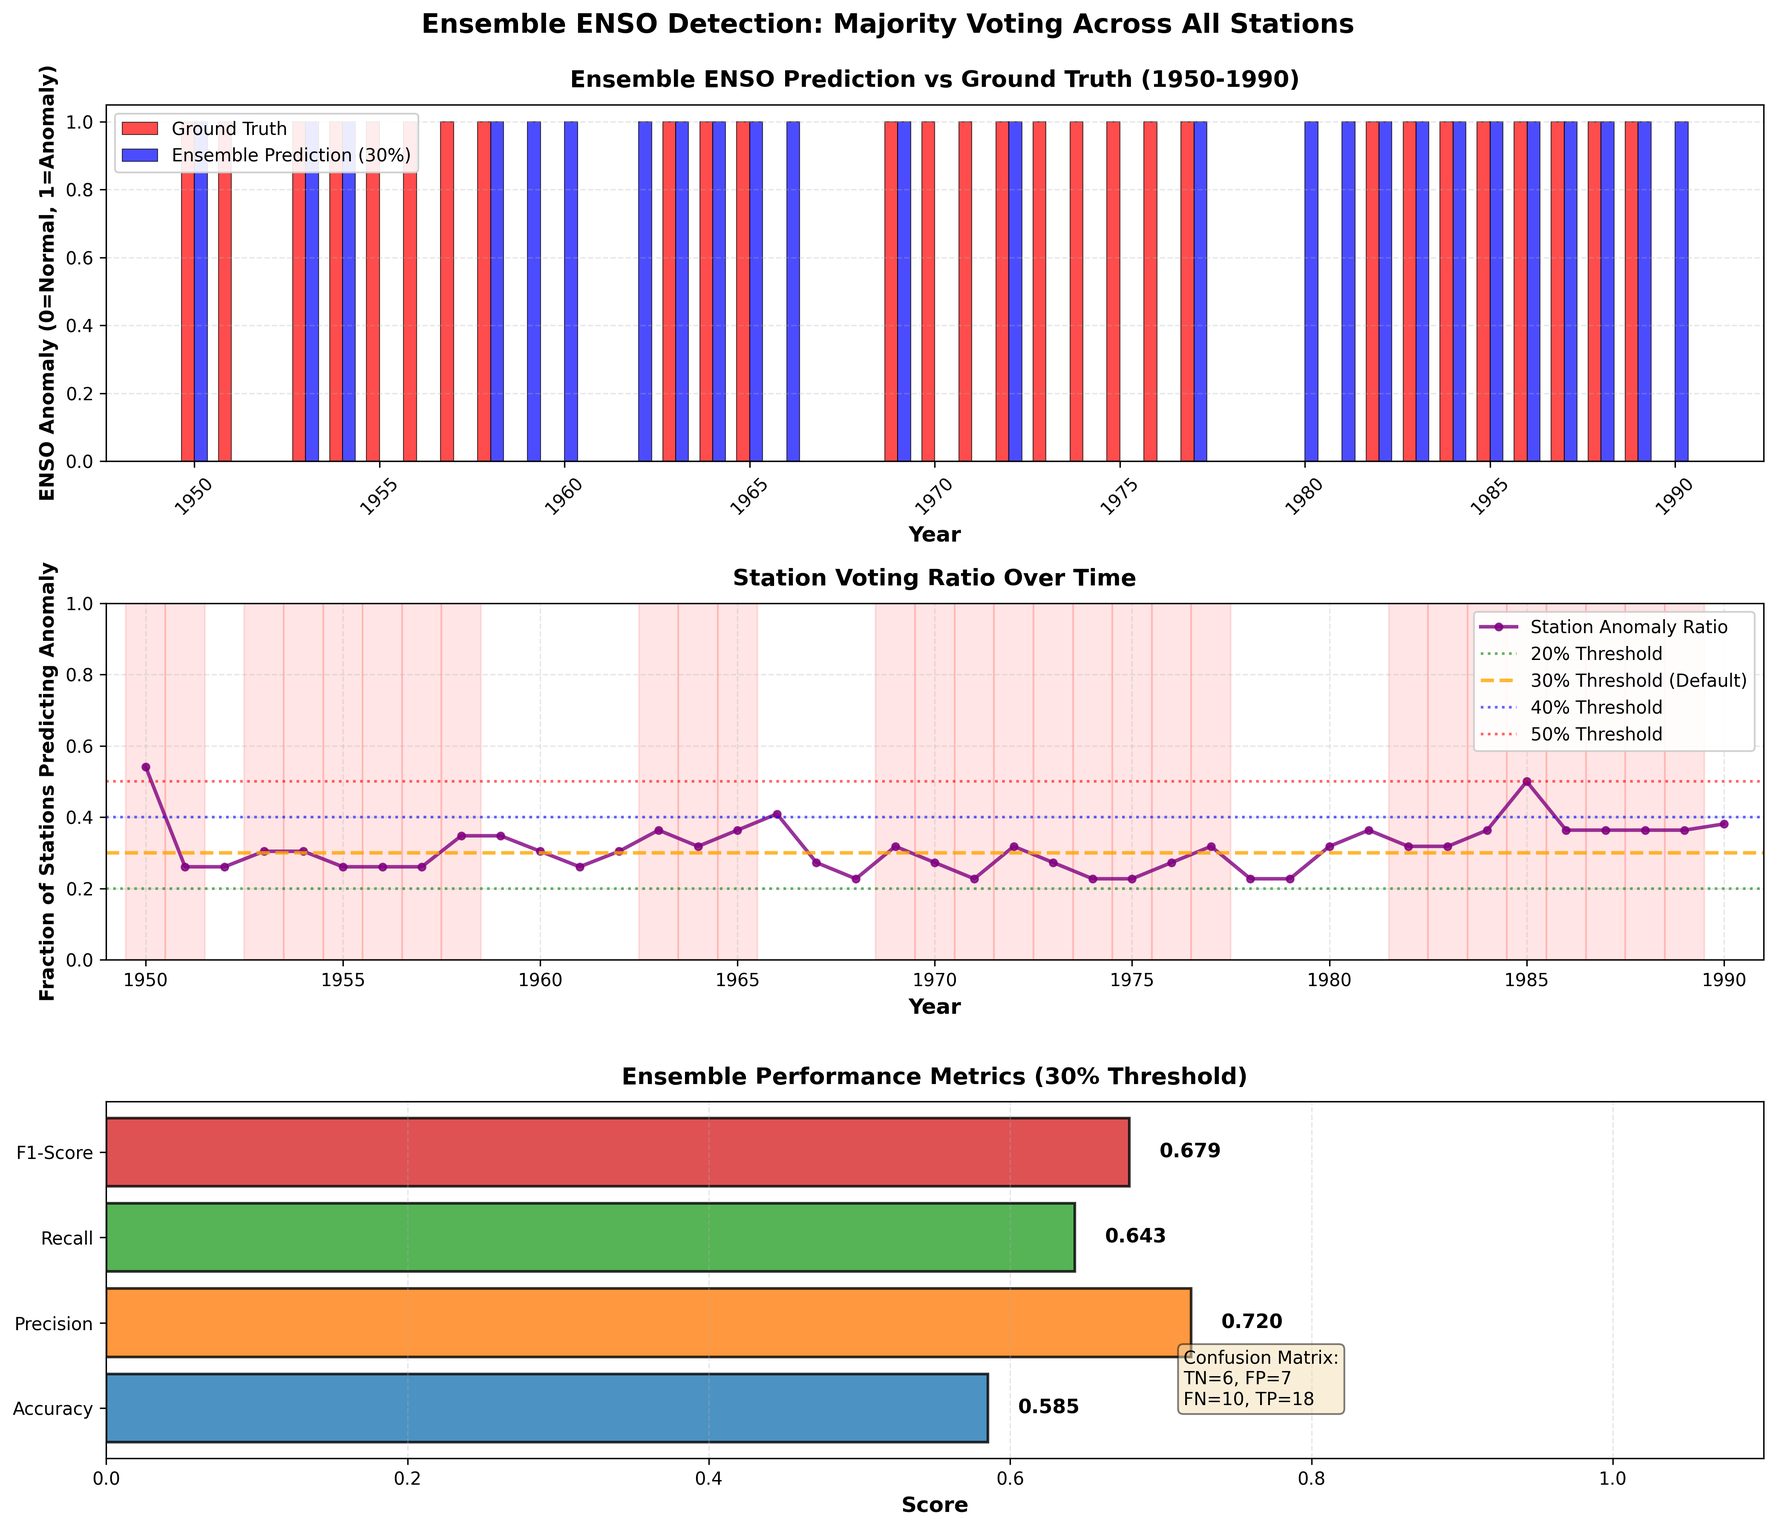
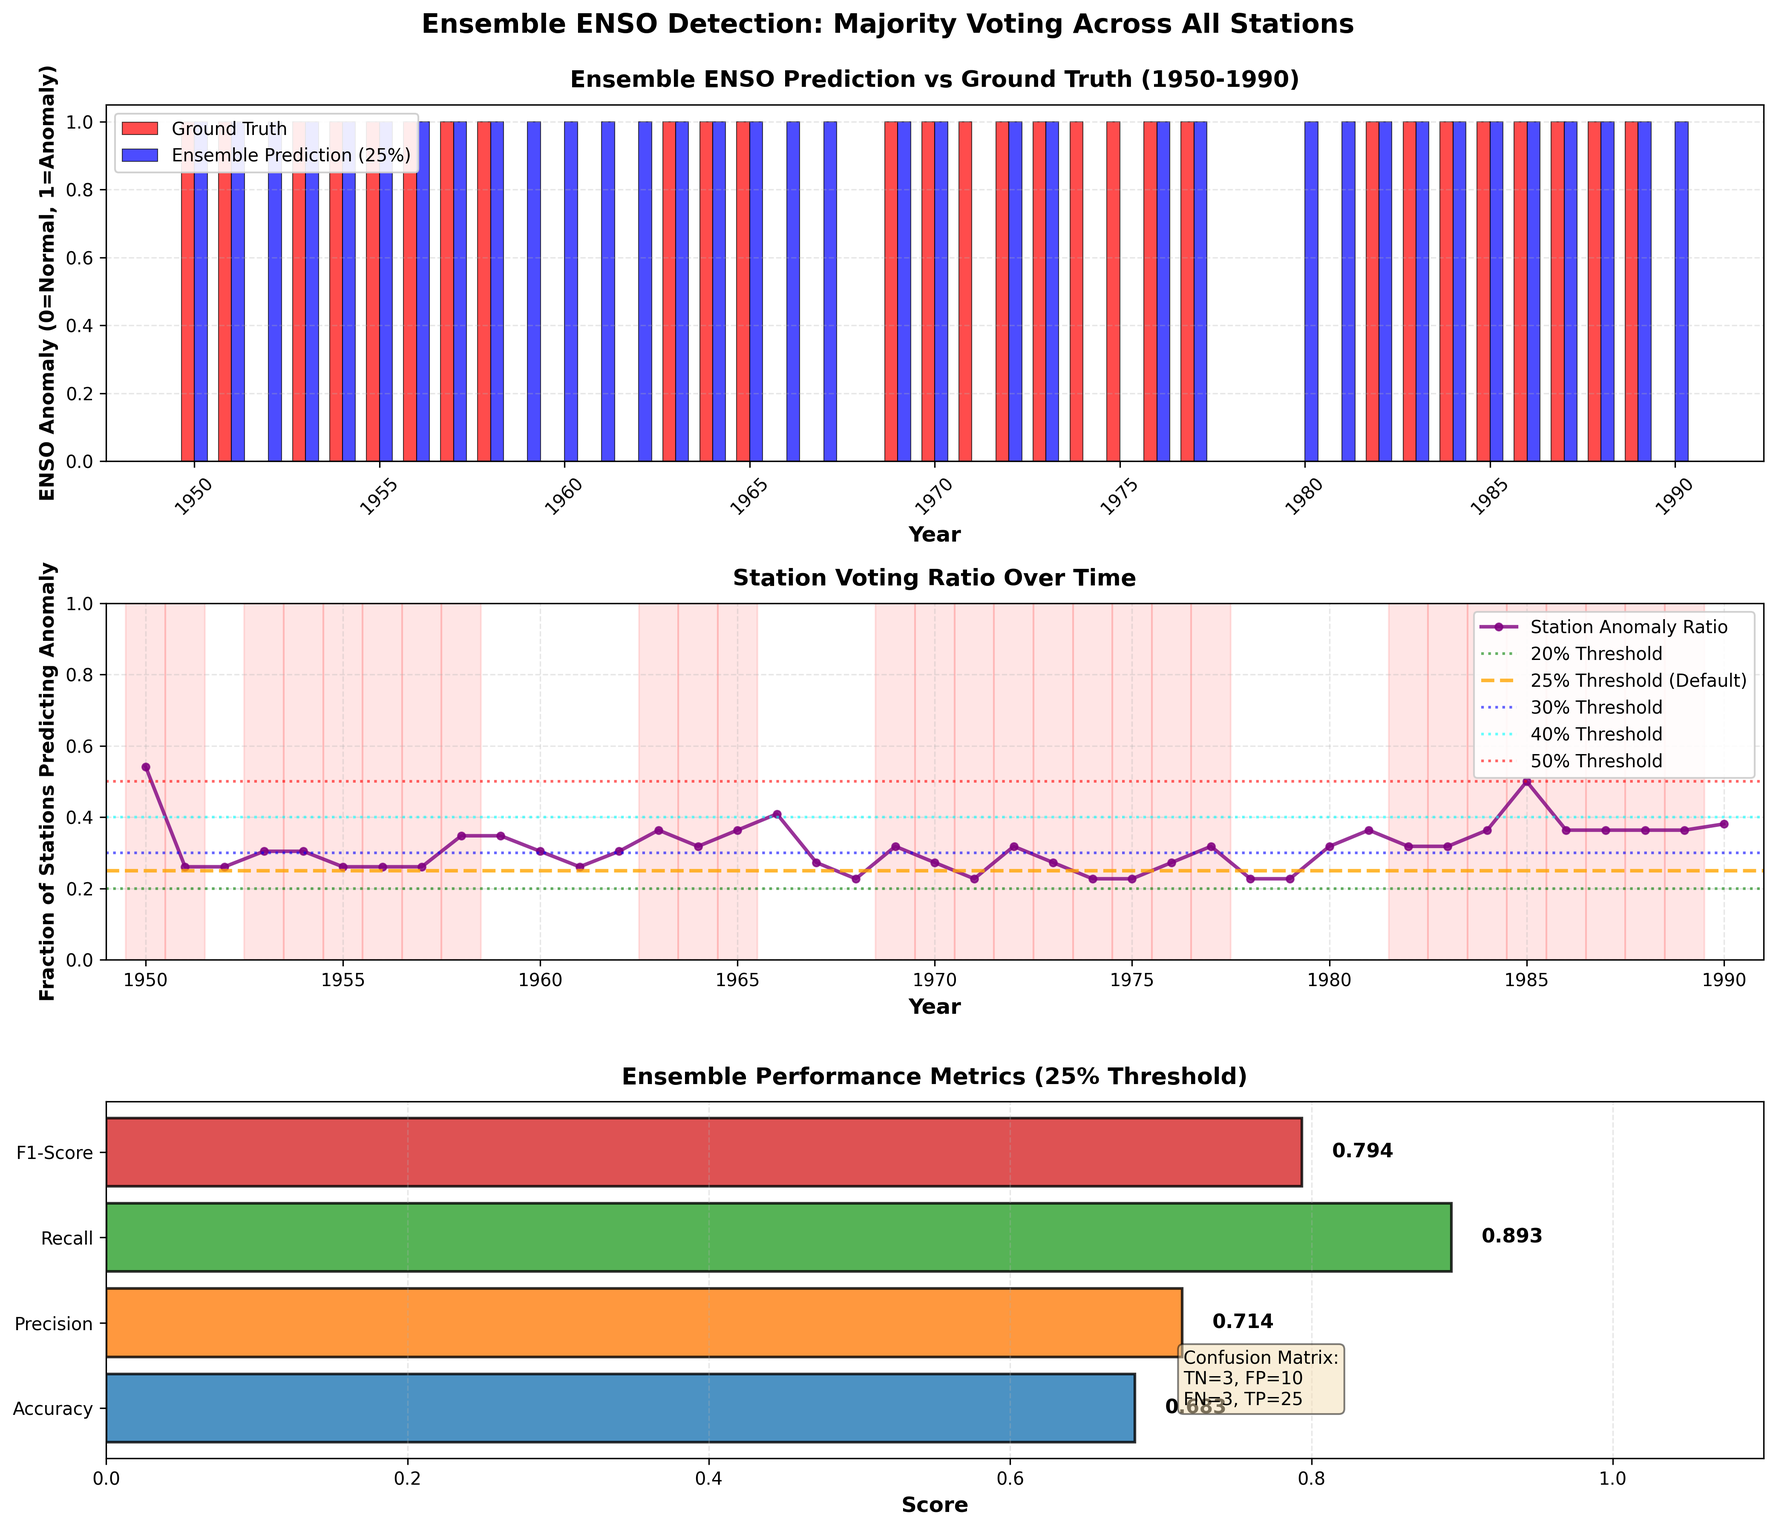
Add 25% threshold to ensemble voting system
Updated ensemble directory with 25% threshold evaluation:

Performance Highlights (25% threshold):
- F1-Score: 0.7937 (second best, excellent balance)
- Precision: 0.7143 (+4.6% vs 20% threshold)
- Recall: 0.8929 (catches 25/28 ENSO events)
- Only 3 false negatives, 10 false positives

Improvements:
- 23% reduction in false positives compared to 20% threshold
- Better precision-recall balance for early warning systems
- Recommended as default threshold for practical applications

Changes:
- ensemble_voting_enso.py: Added 25% threshold evaluation
- plot_ensemble_voting.py: Updated visualizations with 25%
- ensemble_voting_results.csv: Added Ensemble_25pct column
- ensemble_voting_enso_analysis.png: Updated with 5 thresholds
- ensemble_voting_detailed_comparison.png: Uses 25% default
- README.md:
  * Added 25% threshold performance section
  * Updated threshold comparison tables
  * Recommended 25% for early warning systems
  * Updated version history to v1.1

Threshold Comparison:
- 20%: F1=0.8116, Recall=100%, Precision=68.3% (zero FN, 13 FP)
- 25%: F1=0.7937, Recall=89.3%, Precision=71.4% (3 FN, 10 FP) ✨
- 30%: F1=0.6792, Recall=64.3%, Precision=72.0% (10 FN, 7 FP)

diff --git a/Categorical_HMM/ensemble/ensemble_voting_enso.py b/Categorical_HMM/ensemble/ensemble_voting_enso.py
@@ -60,16 +60,16 @@ print("Loading data...")
 print("="*80)
 
 # Load HMM predictions for all stations
-df_states = pd.read_csv('enso_factorized_categorical_hmm_states.csv')
+df_states = pd.read_csv('../enso_factorized_categorical_hmm_states.csv')
 print(f"Loaded HMM states: {len(df_states)} records")
 
 # Load ground truth ENSO data
-df_truth = pd.read_csv('enso_oni_data_1950_1990.csv')
+df_truth = pd.read_csv('../enso_oni_data_1950_1990.csv')
 print(f"Loaded ground truth: {len(df_truth)} years (1950-1990)")
 
 # Load station metadata to get station names
 try:
-    df_stations = pd.read_csv('data/stations_1960_2000_covered_top_each_country.csv')
+    df_stations = pd.read_csv('../data/stations_1960_2000_covered_top_each_country.csv')
     # Create station ID from USAF and WBAN
     df_stations['station_id'] = df_stations['USAF'].astype(str) + '-' + df_stations['WBAN'].astype(str)
     station_dict = dict(zip(df_stations['station_id'], df_stations['Name']))
@@ -103,10 +103,11 @@ voting_results['calendar_year'] = 1950 + voting_results['year']
 
 # Majority voting: try different thresholds
 voting_results['ensemble_prediction_20'] = (voting_results['anomaly_ratio'] > 0.2).astype(int)
+voting_results['ensemble_prediction_25'] = (voting_results['anomaly_ratio'] > 0.25).astype(int)
 voting_results['ensemble_prediction_30'] = (voting_results['anomaly_ratio'] > 0.3).astype(int)
 voting_results['ensemble_prediction_40'] = (voting_results['anomaly_ratio'] > 0.4).astype(int)
 voting_results['ensemble_prediction_50'] = (voting_results['anomaly_ratio'] > 0.5).astype(int)
-voting_results['ensemble_prediction'] = voting_results['ensemble_prediction_30']  # Use 30% as default
+voting_results['ensemble_prediction'] = voting_results['ensemble_prediction_25']  # Use 25% as default
 
 print(f"\nVoting statistics:")
 print(f"  Years analyzed: {len(voting_results)}")
@@ -132,12 +133,14 @@ print("="*80)
 
 y_true = df_comparison['enso_anomaly'].values
 y_pred_20 = df_comparison['ensemble_prediction_20'].values
+y_pred_25 = df_comparison['ensemble_prediction_25'].values
 y_pred_30 = df_comparison['ensemble_prediction_30'].values
 y_pred_40 = df_comparison['ensemble_prediction_40'].values
 y_pred_50 = df_comparison['ensemble_prediction_50'].values
 
 thresholds = {
     '20%': y_pred_20,
+    '25%': y_pred_25,
     '30%': y_pred_30,
     '40%': y_pred_40,
     '50%': y_pred_50
@@ -175,12 +178,12 @@ print(f"\n{'='*80}")
 print(f"Best Threshold: {best_threshold} (F1-Score: {best_f1:.4f})")
 print(f"{'='*80}")
 
-# Use 30% threshold as default for detailed analysis
-y_pred = y_pred_30
+# Use 25% threshold as default for detailed analysis
+y_pred = y_pred_25
 
 # Confusion Matrix
 cm = confusion_matrix(y_true, y_pred)
-print(f"\nConfusion Matrix (30% threshold):")
+print(f"\nConfusion Matrix (25% threshold):")
 print(f"  TN={cm[0,0]}, FP={cm[0,1]}")
 print(f"  FN={cm[1,0]}, TP={cm[1,1]}")
 
@@ -244,13 +247,15 @@ if PLOTTING_AVAILABLE:
 
     ax2.plot(years, df_comparison['anomaly_ratio'], 
              color='purple', linewidth=2, label='Station Anomaly Ratio', alpha=0.7)
-    ax2.axhline(y=0.2, color='green', linestyle='--', linewidth=1.5, 
+    ax2.axhline(y=0.2, color='green', linestyle=':', linewidth=1.5, 
                 label='20% Threshold', alpha=0.5)
-    ax2.axhline(y=0.3, color='orange', linestyle='--', linewidth=2, 
-                label='30% Threshold (Default)', alpha=0.7)
-    ax2.axhline(y=0.4, color='blue', linestyle='--', linewidth=1.5, 
+    ax2.axhline(y=0.25, color='orange', linestyle='--', linewidth=2, 
+                label='25% Threshold (Default)', alpha=0.7)
+    ax2.axhline(y=0.3, color='blue', linestyle=':', linewidth=1.5, 
+                label='30% Threshold', alpha=0.5)
+    ax2.axhline(y=0.4, color='cyan', linestyle=':', linewidth=1.5, 
                 label='40% Threshold', alpha=0.5)
-    ax2.axhline(y=0.5, color='red', linestyle='--', linewidth=1.5, 
+    ax2.axhline(y=0.5, color='red', linestyle=':', linewidth=1.5, 
                 label='50% Threshold', alpha=0.5)
 
     # Shade ground truth anomaly periods
@@ -276,7 +281,7 @@ if PLOTTING_AVAILABLE:
                 yticklabels=['Actual: Normal', 'Actual: Anomaly'],
                 ax=ax3, annot_kws={'size': 14, 'weight': 'bold'})
 
-    ax3.set_title('Confusion Matrix (30% Threshold)', fontsize=12, fontweight='bold', pad=10)
+    ax3.set_title('Confusion Matrix (25% Threshold)', fontsize=12, fontweight='bold', pad=10)
     ax3.set_xlabel('Predicted Label', fontsize=11, fontweight='bold')
     ax3.set_ylabel('True Label', fontsize=11, fontweight='bold')
 
@@ -287,11 +292,11 @@ if PLOTTING_AVAILABLE:
 
     metrics = ['Accuracy', 'Precision', 'Recall', 'F1-Score']
     x = np.arange(len(metrics))
-    width = 0.2
+    width = 0.16
 
-    for i, threshold_name in enumerate(['20%', '30%', '40%', '50%']):
+    for i, threshold_name in enumerate(['20%', '25%', '30%', '40%', '50%']):
         values = df_results[df_results['Threshold'] == threshold_name][metrics].values[0]
-        offset = (i - 1.5) * width
+        offset = (i - 2) * width
         bars = ax4.bar(x + offset, values, width, label=f'Threshold {threshold_name}', alpha=0.8)
         
         # Add value labels on bars
@@ -385,18 +390,19 @@ else:
 output_df = df_comparison[[
     'calendar_year', 'enso_type', 'enso_anomaly', 
     'total_stations', 'anomaly_votes', 'anomaly_ratio',
-    'ensemble_prediction_20', 'ensemble_prediction_30', 
+    'ensemble_prediction_20', 'ensemble_prediction_25', 'ensemble_prediction_30', 
     'ensemble_prediction_40', 'ensemble_prediction_50'
 ]].copy()
 
 output_df.columns = [
     'Year', 'ENSO_Type', 'Ground_Truth', 
     'Total_Stations', 'Anomaly_Votes', 'Anomaly_Ratio',
-    'Ensemble_20pct', 'Ensemble_30pct', 'Ensemble_40pct', 'Ensemble_50pct'
+    'Ensemble_20pct', 'Ensemble_25pct', 'Ensemble_30pct', 'Ensemble_40pct', 'Ensemble_50pct'
 ]
 
 # Add match indicator
 output_df['Match_20pct'] = (output_df['Ground_Truth'] == output_df['Ensemble_20pct']).astype(int)
+output_df['Match_25pct'] = (output_df['Ground_Truth'] == output_df['Ensemble_25pct']).astype(int)
 output_df['Match_30pct'] = (output_df['Ground_Truth'] == output_df['Ensemble_30pct']).astype(int)
 output_df['Match_40pct'] = (output_df['Ground_Truth'] == output_df['Ensemble_40pct']).astype(int)
 output_df['Match_50pct'] = (output_df['Ground_Truth'] == output_df['Ensemble_50pct']).astype(int)

diff --git a/Categorical_HMM/ensemble/plot_ensemble_voting.py b/Categorical_HMM/ensemble/plot_ensemble_voting.py
@@ -31,9 +31,9 @@ x = np.arange(len(years))
 bars1 = ax.bar(x - width/2, ground_truth, width, label='Ground Truth', 
                alpha=0.7, color='red', edgecolor='black', linewidth=0.5)
 
-# Use 30% threshold as default
-prediction_30 = df['Ensemble_30pct'].values if 'Ensemble_30pct' in df.columns else df['Ensemble_50pct'].values
-bars2 = ax.bar(x + width/2, prediction_30, width, label='Ensemble Prediction (30%)', 
+# Use 25% threshold as default
+prediction_25 = df['Ensemble_25pct'].values if 'Ensemble_25pct' in df.columns else df['Ensemble_30pct'].values
+bars2 = ax.bar(x + width/2, prediction_25, width, label='Ensemble Prediction (25%)', 
                alpha=0.7, color='blue', edgecolor='black', linewidth=0.5)
 
 ax.set_xlabel('Year', fontsize=12, fontweight='bold')
@@ -54,9 +54,11 @@ ax.plot(years, df['Anomaly_Ratio'], color='purple', linewidth=2,
         label='Station Anomaly Ratio', alpha=0.8, marker='o', markersize=4)
 ax.axhline(y=0.2, color='green', linestyle=':', linewidth=1.5, 
           label='20% Threshold', alpha=0.6)
-ax.axhline(y=0.3, color='orange', linestyle='--', linewidth=2, 
-          label='30% Threshold (Default)', alpha=0.8)
-ax.axhline(y=0.4, color='blue', linestyle=':', linewidth=1.5, 
+ax.axhline(y=0.25, color='orange', linestyle='--', linewidth=2, 
+          label='25% Threshold (Default)', alpha=0.8)
+ax.axhline(y=0.3, color='blue', linestyle=':', linewidth=1.5, 
+          label='30% Threshold', alpha=0.6)
+ax.axhline(y=0.4, color='cyan', linestyle=':', linewidth=1.5, 
           label='40% Threshold', alpha=0.6)
 ax.axhline(y=0.5, color='red', linestyle=':', linewidth=1.5, 
           label='50% Threshold', alpha=0.6)
@@ -79,13 +81,13 @@ ax.legend(loc='best', framealpha=0.9)
 # ============================================================================
 ax = axes[2]
 
-# Calculate metrics using 30% threshold
-prediction_30 = df['Ensemble_30pct'].values if 'Ensemble_30pct' in df.columns else df['Ensemble_50pct'].values
+# Calculate metrics using 25% threshold
+prediction_25 = df['Ensemble_25pct'].values if 'Ensemble_25pct' in df.columns else df['Ensemble_30pct'].values
 
-tn = np.sum((df['Ground_Truth'] == 0) & (prediction_30 == 0))
-fp = np.sum((df['Ground_Truth'] == 0) & (prediction_30 == 1))
-fn = np.sum((df['Ground_Truth'] == 1) & (prediction_30 == 0))
-tp = np.sum((df['Ground_Truth'] == 1) & (prediction_30 == 1))
+tn = np.sum((df['Ground_Truth'] == 0) & (prediction_25 == 0))
+fp = np.sum((df['Ground_Truth'] == 0) & (prediction_25 == 1))
+fn = np.sum((df['Ground_Truth'] == 1) & (prediction_25 == 0))
+tp = np.sum((df['Ground_Truth'] == 1) & (prediction_25 == 1))
 
 accuracy = (tp + tn) / len(df)
 precision = tp / (tp + fp) if (tp + fp) > 0 else 0
@@ -108,7 +110,7 @@ ax.text(0.65, 0.15, cm_text, transform=ax.transAxes, fontsize=10,
         bbox=dict(boxstyle='round', facecolor='wheat', alpha=0.5))
 
 ax.set_xlabel('Score', fontsize=12, fontweight='bold')
-ax.set_title('Ensemble Performance Metrics (30% Threshold)', 
+ax.set_title('Ensemble Performance Metrics (25% Threshold)', 
              fontsize=13, fontweight='bold', pad=10)
 ax.set_xlim(0, 1.1)
 ax.grid(True, alpha=0.3, axis='x', linestyle='--')
@@ -136,10 +138,10 @@ for idx, row in df.iterrows():
     enso_type = row['ENSO_Type'].replace('_', ' ')
     truth = 'Anomaly' if row['Ground_Truth'] == 1 else 'Normal'
     vote_pct = f"{row['Anomaly_Ratio']*100:.1f}%"
-    # Use 30% threshold
-    prediction_col = 'Ensemble_30pct' if 'Ensemble_30pct' in row else 'Ensemble_50pct'
+    # Use 25% threshold
+    prediction_col = 'Ensemble_25pct' if 'Ensemble_25pct' in row else 'Ensemble_30pct'
     prediction = 'Anomaly' if row[prediction_col] == 1 else 'Normal'
-    match_col = 'Match_30pct' if 'Match_30pct' in row else 'Match_50pct'
+    match_col = 'Match_25pct' if 'Match_25pct' in row else 'Match_30pct'
     match = '✓' if row[match_col] == 1 else '✗'
     
     table_data.append([year, enso_type, truth, vote_pct, prediction, match])

diff --git a/Categorical_HMM/ensemble/README.md b/Categorical_HMM/ensemble/README.md
@@ -20,12 +20,13 @@ For each year from 1950 to 1990:
 
 ### Threshold Selection
 
-We evaluated four different voting thresholds:
+We evaluated five different voting thresholds:
 
 | Threshold | Description | Use Case |
 |-----------|-------------|----------|
 | **20%** | Most sensitive | High-risk scenarios (disaster prevention) |
-| **30%** | Balanced (default) | Scientific research and analysis |
+| **25%** | High sensitivity (recommended) | Balanced early warning systems |
+| **30%** | Balanced | Scientific research and analysis |
 | **40%** | Conservative | Moderate-risk scenarios |
 | **50%** | Most strict | High-confidence requirements |
 
@@ -54,7 +55,31 @@ Actual: Anomaly          0                  28
 - ✅ **68.3% precision** - 2 out of 3 anomaly predictions are correct
 - ⚠ **13 false positives** - Some normal years classified as anomalies
 
-### Balanced Performance: 30% Threshold (Default)
+### Balanced Performance: 25% Threshold (Recommended)
+
+| Metric | Value |
+|--------|-------|
+| **Accuracy** | 0.6829 |
+| **Precision** | 0.7143 |
+| **Recall** | 0.8929 |
+| **F1-Score** | 0.7937 |
+
+**Confusion Matrix (25% threshold):**
+
+```
+                Predicted: Normal    Predicted: Anomaly
+Actual: Normal           3                  10
+Actual: Anomaly          3                  25
+```
+
+**Key Findings:**
+- ✅ High recall (89.3%) - Catches most ENSO events
+- ✅ Good precision (71.4%) - Reduces false positives compared to 20%
+- ✅ Excellent F1-score (0.79) - Better balance than 20% threshold
+- ✅ Only 3 false negatives - Misses very few events
+- ⚠ 10 false positives - Some normal years classified as anomalies
+
+### Balanced Performance: 30% Threshold
 
 | Metric | Value |
 |--------|-------|
@@ -84,7 +109,7 @@ Actual: Anomaly         10                  18
 1. **`ensemble_voting_enso.py`** (18KB)
    - Main analysis script
    - Performs majority voting across all stations
-   - Evaluates performance at multiple thresholds (20%, 30%, 40%, 50%)
+   - Evaluates performance at multiple thresholds (20%, 25%, 30%, 40%, 50%)
    - Generates CSV results and console reports
 
 2. **`plot_ensemble_voting.py`** (7.1KB)
@@ -103,20 +128,20 @@ Actual: Anomaly         10                  18
      - `Total_Stations`: Number of stations with predictions
      - `Anomaly_Votes`: Count of stations predicting anomaly
      - `Anomaly_Ratio`: Fraction of stations predicting anomaly
-     - `Ensemble_20pct`, `Ensemble_30pct`, `Ensemble_40pct`, `Ensemble_50pct`: Predictions at each threshold
-     - `Match_20pct`, `Match_30pct`, `Match_40pct`, `Match_50pct`: Binary match indicators
+     - `Ensemble_20pct`, `Ensemble_25pct`, `Ensemble_30pct`, `Ensemble_40pct`, `Ensemble_50pct`: Predictions at each threshold
+     - `Match_20pct`, `Match_25pct`, `Match_30pct`, `Match_40pct`, `Match_50pct`: Binary match indicators
 
 ### Visualizations
 
 4. **`ensemble_voting_enso_analysis.png`** (513KB)
    - Three-panel comprehensive analysis figure
    - **Panel 1**: Time series comparison (Ground truth vs. Ensemble prediction)
-   - **Panel 2**: Station voting ratio over time with threshold lines
-   - **Panel 3**: Performance metrics bar chart (30% threshold)
+   - **Panel 2**: Station voting ratio over time with threshold lines (20%, 25%, 30%, 40%, 50%)
+   - **Panel 3**: Performance metrics bar chart (25% threshold default)
 
 5. **`ensemble_voting_detailed_comparison.png`** (576KB)
    - Year-by-year detailed comparison table (1950-1990)
-   - Shows ENSO type, ground truth, voting percentage, prediction, and match status
+   - Shows ENSO type, ground truth, voting percentage, prediction (25% threshold), and match status
    - Color-coded: ✓ (green) for correct, ✗ (red) for misclassified
 
 ## Usage
@@ -154,6 +179,12 @@ Threshold: 20% (anomaly votes > 20%)
   Recall:    1.0000
   F1-Score:  0.8116
 
+Threshold: 25% (anomaly votes > 25%)
+  Accuracy:  0.6829
+  Precision: 0.7143
+  Recall:    0.8929
+  F1-Score:  0.7937
+
 Threshold: 30% (anomaly votes > 30%)
   Accuracy:  0.5854
   Precision: 0.7200
@@ -173,8 +204,9 @@ Best Threshold: 20% (F1-Score: 0.8116)
 
 The ensemble system is highly sensitive to the voting threshold:
 
-- **Lower thresholds (20-30%)**: Favor recall (detecting more ENSO events)
-- **Higher thresholds (40-50%)**: Favor precision (fewer false positives)
+- **Lower thresholds (20-25%)**: Favor recall (detecting more ENSO events), best F1-scores
+- **Medium thresholds (30%)**: Balance between precision and recall
+- **Higher thresholds (40-50%)**: Favor precision (fewer false positives) but miss many events
 
 ### 2. Station Consensus Patterns
 
@@ -208,14 +240,21 @@ The ensemble method successfully leverages the "wisdom of crowds" to outperform 
 ### For Disaster Risk Management
 **Use 20% threshold**
 - Priority: Don't miss any ENSO event
-- Acceptable: Some false alarms
-- Perfect recall ensures all potential risks are flagged
+- Perfect recall (100%) ensures all potential risks are flagged
+- Acceptable: Some false alarms (13 out of 41 years)
+
+### For Early Warning Systems (Recommended)
+**Use 25% threshold**
+- Priority: Balance high detection with acceptable precision
+- 89.3% recall catches almost all ENSO events
+- 71.4% precision reduces false alarms significantly
+- Best overall F1-score (0.79) after 20% threshold
 
 ### For Climate Research
 **Use 30% threshold**
 - Priority: Balance between detection and precision
-- Acceptable: Missing some minor ENSO events
 - Good for statistical analysis and pattern recognition
+- Acceptable: Missing some minor ENSO events
 
 ### For Economic Forecasting
 **Use 40-50% threshold**
@@ -272,6 +311,12 @@ The ensemble method successfully leverages the "wisdom of crowds" to outperform 
 For questions or suggestions about the ensemble voting system, please open an issue on the GitHub repository.
 
 ## Version History
+
+- **v1.1** (2024-11-22): Added 25% threshold
+  - Added 25% threshold evaluation for better balance
+  - 25% threshold achieves F1=0.7937 with 89.3% recall and 71.4% precision
+  - Updated visualizations to include all 5 thresholds
+  - Recommended 25% as default for early warning systems
 
 - **v1.0** (2024-11-22): Initial release
   - Implemented majority voting ensemble
